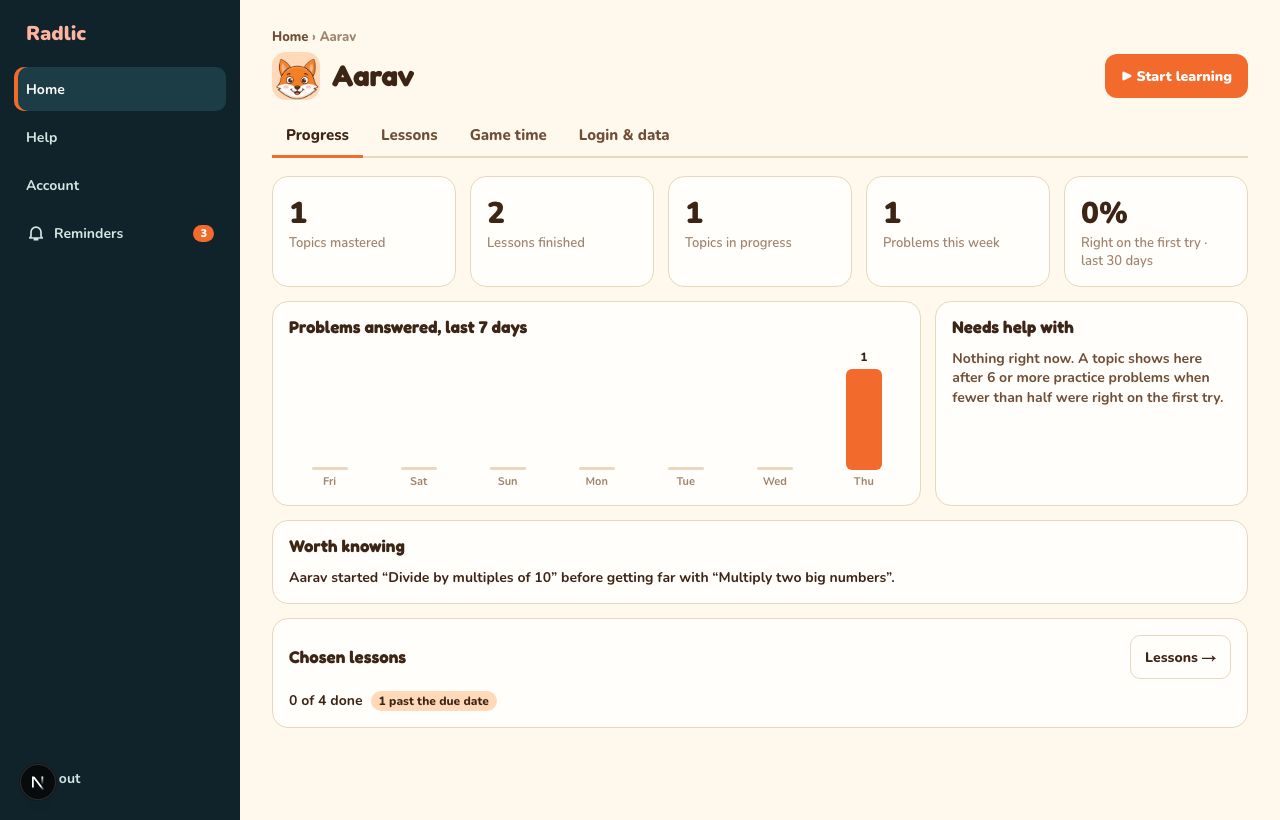
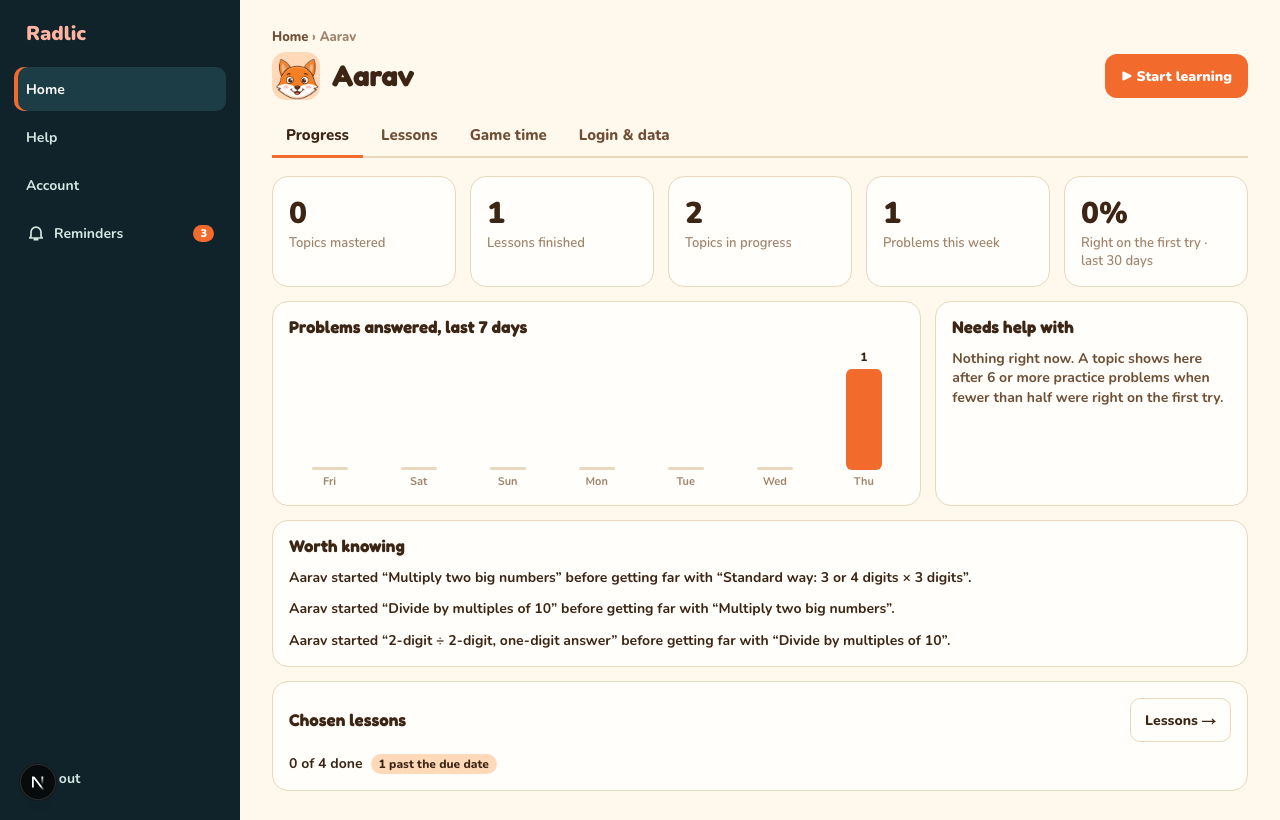
Parent line from progress alone (option a); doc 08 made true; PRs open as Drafts
- The parent's "started X before getting far with Y" is now derived from lesson_progress
  (startedAhead): no learner_events read or written for it, and the nudge no longer logs
  an event. The notice already covers progress, so no legal text changes for it.
- Doc 08 (published): line 20 names the new device keys (where the child is in each topic's
  practice; the day the suggestion was last shown); line 33 no longer claims a signed-out
  device keeps nothing — it names what was measured on 24 Sep (the per-topic standing and
  done keys, and milo-kv-migrated). Spanish draft updated to match. Gated by
  doc08SignedOut.test.ts and re-measured in e2e/short-sessions.spec.ts.
- CLAUDE.md: open every PR as a Draft; Rafi marks it Ready only when he means to merge.
No migration.

diff --git a/src/__tests__/nudgeParentLine.test.ts b/src/__tests__/nudgeParentLine.test.ts
@@ -1,6 +1,7 @@
 /**
- * The parent's calm line about the prerequisite nudge (founder, 2026-09-24): "<name> started “<next>” before getting
- * far with “<prev>”." — only after the child chose "Go anyway", one per topic, newest first. Written out, not imported.
+ * The parent's calm line about going ahead (founder, 2026-09-24, option (a)): "<name> started “<next>” before getting
+ * far with “<prev>”." — derived from PROGRESS ALONE (lesson_progress), which the notice already covers. No event is
+ * read or written for it. Expected lines are written out here, not imported.
  */
 import { describe, it, expect, vi } from 'vitest'
 import { createElement, act } from 'react'
@@ -8,50 +9,45 @@ import { createRoot } from 'react-dom/client'
 
 ;(globalThis as { IS_REACT_ACT_ENVIRONMENT?: boolean }).IS_REACT_ACT_ENVIRONMENT = true
 
-const rows = vi.hoisted(() => ({ events: [] as unknown[] }))
+const data = vi.hoisted(() => ({ rows: [] as { lesson_id: string; done: boolean; level: number; streak: number; mastered: boolean }[], tables: [] as string[] }))
 vi.mock('@/data/repositories/_shared', async orig => {
   const actual = await orig<typeof import('@/data/repositories/_shared')>()
-  // select → eq(learner) → eq(event) → gte → order → limit, as getRecentNudges calls it
-  const q = { select: () => q, eq: () => q, gte: () => q, order: () => q, limit: async () => ({ data: rows.events }) }
-  return { ...actual, db: () => ({ from: () => q }) }
+  const q = (t: string) => { data.tables.push(t); const x = { select: () => x, eq: () => x, gte: () => x, order: async () => ({ data: [] }), then: (r: (v: unknown) => void) => r({ data: t === 'lesson_progress' ? data.rows : [] }) }; return x }
+  return { ...actual, db: () => ({ from: q, rpc: async () => ({ data: null }) }) }
 })
 
-const { getRecentNudges } = await import('@/data/repositories/points')
+const { startedAhead } = await import('@/features/lessons/nudge')
 const { findModule } = await import('@/features/lessons/modules')
-const [first, second, third] = findModule('g3m2')!.lessons
+const { Performance } = await import('@/features/lessons/Performance')
+const m = findModule('g3m2')!
+const [first, second, third] = m.lessons
+const row = (id: string, level: number, mastered = false) => ({ lesson_id: id, done: mastered, level, streak: 0, mastered })
 
-describe('the parent line', () => {
-  it('one per topic, newest first; a malformed event is skipped', async () => {
-    rows.events = [
-      { props: { lesson: second.id, prereq: first.id }, created_at: '2026-09-26T10:00:00Z' },
-      { props: { lesson: second.id, prereq: first.id }, created_at: '2026-09-25T10:00:00Z' },
-      { props: { lesson: 7 }, created_at: '2026-09-25T09:00:00Z' },
-      { props: { lesson: third.id, prereq: second.id }, created_at: '2026-09-24T10:00:00Z' },
-    ]
-    expect(await getRecentNudges('kid', 30)).toEqual([
-      { lesson: second.id, prereq: first.id, at: '2026-09-26T10:00:00Z' },
-      { lesson: third.id, prereq: second.id, at: '2026-09-24T10:00:00Z' },
-    ])
+describe('the parent line, from progress', () => {
+  it('a started topic whose previous topic is under halfway — and only that (a 4-level ladder: ¼ per level)', () => {
+    const four = () => 4
+    const ids = (r: ReturnType<typeof startedAhead>) => r.map(x => [x.lesson.id, x.prev.id])
+    expect(ids(startedAhead([row(second.id, 0)], [m], four))).toEqual([[second.id, first.id]])                        // previous never started
+    expect(ids(startedAhead([row(first.id, 1), row(second.id, 0)], [m], four))).toEqual([[second.id, first.id]])      // ¼
+    expect(startedAhead([row(first.id, 2), row(second.id, 0)], [m], four)).toEqual([])                               // exactly halfway
+    expect(startedAhead([row(first.id, 0, true), row(second.id, 0)], [m], four)).toEqual([])                         // previous mastered
+    expect(startedAhead([row(first.id, 0)], [m], four)).toEqual([])                                                  // nothing started ahead
+    expect(ids(startedAhead([row(first.id, 3), row(second.id, 0), row(third.id, 0)], [m], four))).toEqual([[third.id, second.id]])
   })
 
-  it('shows on the Progress tab in calm words, and not at all when there is nothing to say', async () => {
-    vi.doMock('@/data/repositories/points', async orig => ({
-      ...(await orig<Record<string, unknown>>()),
-      getRecentPoints: async () => [], getLessonRows: async () => [],
-      getRecentNudges: async () => rows.events.length ? [{ lesson: second.id, prereq: first.id, at: 'x' }] : [],
-    }))
-    const { Performance } = await import('@/features/lessons/Performance')
+  it('shows on the Progress tab in calm words; nothing when there is nothing to say; no event table is read', async () => {
     const render = async () => {
       const host = document.createElement('div'); document.body.append(host)
       await act(async () => { createRoot(host).render(createElement(Performance, { learners: [{ id: 'kid', name: 'Ava', lessonIds: null, due: {} }] })) })
       await act(async () => { await new Promise(r => setTimeout(r, 0)) })
       return host.textContent ?? ''
     }
-    const line = `Ava started “${second.title}” before getting far with “${first.title}”.`
+    data.rows = [row(second.id, 1)]
     const shown = await render()
-    expect(shown).toContain('Topics mastered')                    // control: the tab rendered its report
-    expect(shown).toContain(line)
-    rows.events = []
+    expect(shown).toContain('Topics mastered')                        // control: the report rendered
+    expect(shown).toContain(`Ava started “${second.title}” before getting far with “${first.title}”.`)
+    expect(data.tables).not.toContain('learner_events')
+    data.rows = [row(first.id, 0, true), row(second.id, 1)]
     const quiet = await render()
     expect(quiet).toContain('Topics mastered')
     expect(quiet).not.toContain('Worth knowing')

diff --git a/e2e/short-sessions.spec.ts b/e2e/short-sessions.spec.ts
@@ -11,6 +11,7 @@
  * Screenshots → docs/legal/screenshots/short-sessions/.
  */
 import { test, expect, type BrowserContext, type Page, type Route } from '@playwright/test'
+import { readFileSync } from 'node:fs'
 
 const FAKE = 'https://e2e-fake.supabase.co'
 const KID = 'e2e-kid'
@@ -198,8 +199,7 @@ test('Part B — under halfway: the card, a bar and no number; "anyway" in one t
   await page.screenshot({ path: `${SHOTS}/05-nudge.png` })
   await page.getByRole('button', { name: `Go to ${NEXT_TITLE} anyway` }).click()
   await expect(page.getByText('Screen 1 of 9')).toBeVisible()
-  await expect.poll(() => server.events.filter(e => e.event === 'nudge_went_anyway').length).toBe(1)
-  expect(server.events.find(e => e.event === 'nudge_went_anyway')!.props).toEqual({ lesson: TOPIC, prereq: PREV })
+  expect(server.events, 'option (a): no event is written for the nudge').toEqual([])
   await page.reload()
   await expect(page.getByText('Screen 1 of 9')).toBeVisible()
   await expect(page.getByText("You're on your way with")).toHaveCount(0)
@@ -217,16 +217,39 @@ test('Part B — no card at halfway or past it, and none for an assigned topic',
   }
 })
 
-test('the parent sees real progress, calmly — and the nudge line', async ({ browser }) => {
-  server.progress.set(PREV, { lesson_id: PREV, done: true, level: 4, streak: 0, mastered: true })
+test('the parent sees real progress, calmly — and the going-ahead line, read from progress alone', async ({ browser }) => {
+  // TOPIC was started (the tests above); PREV is at level 1 of 5 — under halfway. No event exists for the line to use.
+  server.events.length = 0
+  server.progress.set(PREV, { lesson_id: PREV, done: false, level: 1, streak: 0, mastered: false })
   server.progress.set('g5m1-t13', { lesson_id: 'g5m1-t13', done: false, level: 1, streak: 0, mastered: false })
   const ctx = await device(browser)
   const page = await ctx.newPage()
   await page.goto('/ui-preview?p=child&tab=progress')
   await expect(page.getByText('Topics in progress')).toBeVisible()
-  // g5m1-t13 started and not done → 1 in progress; the other two are done (mastered, and 12 answers).
-  await expect(page.getByText('Topics in progress').locator('xpath=..')).toContainText('1')
+  // g5m1-t11 and g5m1-t13 started and not done → 2 in progress; g5m1-t12 is done (12 answers).
+  await expect(page.getByText('Topics in progress').locator('xpath=..')).toContainText('2')
   await expect(page.getByText(`Aarav started “${NEXT_TITLE}” before getting far with “${PREV_TITLE}”.`)).toBeVisible()
   await page.screenshot({ path: `${SHOTS}/06-parent-progress.png`, fullPage: true })
+  await ctx.close()
+})
+
+test('signed out: the device keeps exactly what the published doc 08 says', async ({ browser }) => {
+  const doc = readFileSync('docs/legal/08-cookie-and-tracking-notice.md', 'utf8').split('\n').find(l => l.startsWith('**If you are not signed in'))!
+  const named = [...doc.matchAll(/`([^`]+)`/g)].map(m => m[1])
+  const matches = (k: string) => named.some(n => new RegExp(`^${n.replace(/[.*+?^${}()|[\]\\]/g, '\\$&').replace('<topic>', '[a-z0-9-]+')}$`).test(k))
+  const ctx = await browser.newContext()
+  await fake(ctx)
+  const page = await ctx.newPage()
+  await page.goto(`/lesson?id=${TOPIC}`)
+  await toPractice(page)
+  for (let n = 1; n <= 12; n++) { await answerNotRight(page); const d = page.getByRole('dialog'); if (await d.isVisible().catch(() => false)) await d.getByRole('button', { name: 'Keep going' }).click() }
+  const idb = await page.evaluate(() => new Promise<string[]>(res => { const r = indexedDB.open('milo', 1); r.onsuccess = () => { const g = r.result.transaction('kv').objectStore('kv').getAllKeys(); g.onsuccess = () => res(g.result.map(String)) } }))
+  const ls = await page.evaluate(() => Array.from({ length: localStorage.length }, (_, i) => localStorage.key(i)!))
+  const ss = await page.evaluate(() => sessionStorage.length)
+  expect(idb.length, 'control: the device store holds something to compare').toBeGreaterThan(0)
+  expect([...idb, ...ls].filter(k => !matches(k)), 'kept on the device but not on the published page').toEqual([])
+  expect(named.filter(n => n.includes('<topic>')).filter(n => !idb.some(k => matches(k) && new RegExp(n.replace('<topic>', '')).test(k))), 'on the page but not kept').toEqual([])
+  expect(ss).toBe(0)
+  expect(await ctx.cookies()).toEqual([])
   await ctx.close()
 })

diff --git a/src/features/lessons/Performance.tsx b/src/features/lessons/Performance.tsx
@@ -9,7 +9,10 @@ import { useEffect, useState, type CSSProperties } from 'react'
 import Link from 'next/link'
 import { findLesson } from './modules'
 import { buildReport, assignmentStatus, localDay, showDay, STUCK_MIN, type Report } from './progressReport'
-import { getLessonRows, getRecentPoints, getRecentNudges } from '@/data/repositories/points'
+import { getLessonRows, getRecentPoints } from '@/data/repositories/points'
+import { startedAhead } from './nudge'
+import { ladderOf } from './ladders'
+import { MODULES } from './modules'
 import { lessonDone } from '@/infra/storage/lessonProgress'
 import { useT, useLang } from '@/features/dashboard/i18n'
 
@@ -21,15 +24,16 @@ const DAYS = 30
 export function Performance({ learners, lessonsHref }: { learners: PerformanceLearner[]; lessonsHref?: string }) {
   const t = useT(), lang = useLang(), loc = lang === 'es' ? 'es-US' : 'en-US'
   const [who, setWho] = useState(learners[0]?.id ?? '')
-  const [report, setReport] = useState<{ id: string; r: Report | null; nudges: { lesson: string; prereq: string }[] } | null>(null)
+  const [report, setReport] = useState<{ id: string; r: Report | null; ahead: ReturnType<typeof startedAhead> } | null>(null)
   const child = learners.find(l => l.id === who) ?? learners[0]
 
   const childId = child?.id
   useEffect(() => {
     if (!childId) return
     let live = true
-    Promise.all([getRecentPoints(childId, DAYS), getLessonRows(childId), getRecentNudges(childId, DAYS)]).then(([points, rows, nudges]) => {
-      if (live) setReport({ id: childId, r: points && rows ? buildReport(points, rows, new Date()) : null, nudges: (nudges ?? []).slice(0, 3) })
+    Promise.all([getRecentPoints(childId, DAYS), getLessonRows(childId)]).then(([points, rows]) => {
+      if (live) setReport({ id: childId, r: points && rows ? buildReport(points, rows, new Date()) : null,
+        ahead: rows ? startedAhead(rows, MODULES, id => ladderOf(id)?.length).slice(0, 3) : [] })
     })
     return () => { live = false }
   }, [childId])
@@ -108,12 +112,12 @@ export function Performance({ learners, lessonsHref }: { learners: PerformanceLe
             </section>
           </div>
 
-          {/* The prerequisite nudge, told calmly: the child chose to go ahead, which is allowed (founder, 2026-09-24). */}
-          {(report?.nudges.length ?? 0) > 0 && <section style={{ ...panel, marginTop: 14 }} aria-label={t('Worth knowing')}>
+          {/* Going ahead is allowed; told calmly, from progress alone (founder, 2026-09-24, option (a)). */}
+          {(report?.ahead.length ?? 0) > 0 && <section style={{ ...panel, marginTop: 14 }} aria-label={t('Worth knowing')}>
             <h2 style={h2}>{t('Worth knowing')}</h2>
-            {report!.nudges.map(n => (
-              <p key={n.lesson} style={{ margin: 0, fontSize: 14, color: 'var(--ink)' }}>
-                {t('{name} started “{next}” before getting far with “{prev}”.', { name: child.name, next: findLesson(n.lesson)?.lesson.title ?? n.lesson, prev: findLesson(n.prereq)?.lesson.title ?? n.prereq })}
+            {report!.ahead.map(a => (
+              <p key={a.lesson.id} style={{ margin: 0, fontSize: 14, color: 'var(--ink)' }}>
+                {t('{name} started “{next}” before getting far with “{prev}”.', { name: child.name, next: a.lesson.title, prev: a.prev.title })}
               </p>
             ))}
           </section>}

diff --git a/src/__tests__/doc08SignedOut.test.ts b/src/__tests__/doc08SignedOut.test.ts
@@ -1,0 +1,40 @@
+/**
+ * Doc 08 is PUBLISHED (/legal/cookies). Its signed-out paragraph states exactly what the device keeps when no child is
+ * signed in; this holds the code to it. Every per-child store is called with no child, and the keys written must be
+ * exactly the ones the paragraph names (`<topic>` = any topic id) — no more (an unlisted key makes the page false) and
+ * no fewer (a named key nothing writes is a stale sentence). The real signed-out flow is re-measured end to end in
+ * e2e/short-sessions.spec.ts. Keys are read out of the document, not typed here.
+ */
+import { describe, it, expect } from 'vitest'
+import { readFileSync } from 'node:fs'
+import { resolve } from 'node:path'
+import { saveStanding } from '@/infra/storage/lessonStanding'
+import { markLessonDone } from '@/infra/storage/lessonProgress'
+import { saveRun } from '@/infra/storage/lessonRun'
+import { syncLesson, syncRun, syncModulePractice } from '@/infra/storage/lessonSync'
+
+const doc = readFileSync(resolve(__dirname, '../../docs/legal/08-cookie-and-tracking-notice.md'), 'utf8')
+const para = doc.split('\n').find(l => l.startsWith('**If you are not signed in'))!
+const named = [...para.matchAll(/`([^`]+)`/g)].map(m => m[1])
+const pattern = (k: string) => new RegExp(`^${k.replace(/[.*+?^${}()|[\]\\]/g, '\\$&').replace('<topic>', '[a-z0-9-]+')}$`)
+
+describe('doc 08: what a signed-out device keeps', () => {
+  it('the paragraph exists and names keys (control)', () => {
+    expect(para).toBeTruthy()
+    expect(named).toContain('milo-newflow-standing-device-<topic>')
+  })
+
+  it('the stores, with no child signed in, write exactly the keys the published page names', () => {
+    localStorage.clear()
+    const problem = { text: 'q', answer: 1, picture: { kind: 'eq' as const, text: '' } }
+    saveStanding(null, 'g5m1-t12', { level: 1, streak: 0, mastered: false })
+    markLessonDone(null, 'g5m1-t12')
+    saveRun(null, 'g5m1-t12', { asked: 5, recent: ['q'], current: { problem, from: 'g5m1-t12' }, review: null })
+    syncLesson(null, 'g5m1-t12', 'first'); syncRun(null, 'g5m1-t12'); syncModulePractice(null, 'g5m1')
+    const written = Array.from({ length: localStorage.length }, (_, i) => localStorage.key(i)!)
+    expect(written.length, 'control: the stores wrote something to look at').toBeGreaterThan(0)
+    const perTopic = named.filter(k => k.includes('<topic>'))
+    expect(written.filter(k => !named.some(n => pattern(n).test(k))), 'written but not on the page').toEqual([])
+    expect(perTopic.filter(n => !written.some(k => pattern(n).test(k))), 'on the page but never written').toEqual([])
+  })
+})

diff --git a/src/__tests__/nudge.test.ts b/src/__tests__/nudge.test.ts
@@ -15,13 +15,11 @@ globalThis.ResizeObserver ??= class { observe() {} unobserve() {} disconnect() {
 
 const nav = vi.hoisted(() => ({ qs: '', pushed: [] as string[] }))
 const who = vi.hoisted(() => ({ learner: null as null | { id: string; lesson_ids: string[] | null } }))
-const tracked = vi.hoisted(() => [] as [string, Record<string, unknown>][])
 vi.mock('next/navigation', () => ({
   useRouter: () => ({ push: (u: string) => nav.pushed.push(u), replace: () => {} }),
   useSearchParams: () => new URLSearchParams(nav.qs), usePathname: () => '/lesson',
 }))
 vi.mock('@/data/supabase/useLearnerSession', () => ({ getActiveLearner: () => who.learner }))
-vi.mock('@/infra/analytics', () => ({ track: (e: string, p: Record<string, unknown>) => tracked.push([e, p]) }))
 vi.mock('@/infra/useMiloSpeaker', () => ({ speak: () => {}, speakSteps: () => () => {}, stopSpeech: () => {} }))
 vi.mock('@/infra/voiceClipPlayer', () => ({ setSceneVoice: () => {}, prefetchClips: () => {}, setClipRate: () => {} }))
 vi.mock('@/data/repositories/points', () => ({
@@ -95,7 +93,7 @@ describe('the /lesson page', () => {
   const CARD = `You're on your way with ${first.title}! ⭐ Getting a bit further there (past halfway) will make ${second.title} easier.`
 
   beforeEach(() => {
-    localStorage.clear(); nav.pushed.length = 0; tracked.length = 0
+    localStorage.clear(); nav.pushed.length = 0
     nav.qs = `id=${second.id}`; who.learner = { id: 'kid-1', lesson_ids: null }
   })
 
@@ -107,7 +105,6 @@ describe('the /lesson page', () => {
     expect(text()).not.toMatch(/\d\s*%/)
     await act(async () => { button(`Go to ${second.title} anyway`)!.click() })
     expect(text()).toContain('Screen 1 of 9')
-    expect(tracked).toEqual([['nudge_went_anyway', { lesson: second.id, prereq: first.id }]])
     await open()
     expect(text()).not.toContain(CARD)
     expect(text()).toContain('Screen 1 of 9')

diff --git a/src/data/repositories/points.ts b/src/data/repositories/points.ts
@@ -106,22 +106,3 @@ export async function setGameSettings(learnerId: string, enabled: boolean, minut
   } catch { return false }
 }
 
-/**
- * "Went ahead anyway" on the prerequisite nudge (features/lessons/nudge.ts), newest first, one per topic: the parent's
- * calm line. From `learner_events`, which the owning adult may read (policy learner_events_select). null = could not read.
- */
-export async function getRecentNudges(learnerId: string, days: number): Promise<{ lesson: string; prereq: string; at: string }[] | null> {
-  try {
-    const since = new Date(Date.now() - days * 86_400_000).toISOString()
-    const { data, error } = await db().from('learner_events').select('props, created_at')
-      .eq('learner_id', learnerId).eq('event', 'nudge_went_anyway').gte('created_at', since).order('created_at', { ascending: false }).limit(50)
-    if (error) return null
-    const seen = new Set<string>(), out: { lesson: string; prereq: string; at: string }[] = []
-    for (const r of data as { props: { lesson?: unknown; prereq?: unknown }; created_at: string }[]) {
-      const { lesson, prereq } = r.props ?? {}
-      if (typeof lesson !== 'string' || typeof prereq !== 'string' || seen.has(lesson)) continue
-      seen.add(lesson); out.push({ lesson, prereq, at: r.created_at })
-    }
-    return out
-  } catch { return null }
-}

diff --git a/src/features/lessons/nudge.ts b/src/features/lessons/nudge.ts
@@ -34,3 +34,19 @@ export function nudgeFor(lesson: Lesson, module: Module, ctx: {
   const progress = progressOf(ctx.standingOf(prev.id), levels)
   return progress < PREREQ_THRESHOLD ? { prev, progress } : null
 }
+
+/**
+ * The parent's line (founder, 2026-09-24, option (a)): read from progress alone, never from an event. A topic the child
+ * has started (it has a progress row) while the topic before it in the module is still under PREREQ_THRESHOLD —
+ * "<name> started “X” before getting far with “Y”." True whether the child saw the card or the topic was assigned: it
+ * describes progress, which the notice already covers ("how it shows you progress").
+ */
+export function startedAhead(rows: readonly (Standing & { lesson_id: string })[], modules: readonly Module[],
+  levelsOf: (id: string) => number | undefined): { lesson: Lesson; prev: Lesson }[] {
+  const byId = new Map(rows.map(r => [r.lesson_id, r]))
+  return modules.flatMap(m => m.lessons.flatMap((lesson, i) => {
+    const prev = m.lessons[i - 1], levels = prev && levelsOf(prev.id)
+    if (!prev || !levels || !byId.has(lesson.id)) return []
+    return progressOf(byId.get(prev.id) ?? null, levels) < PREREQ_THRESHOLD ? [{ lesson, prev }] : []
+  }))
+}

diff --git a/src/features/lessons/LessonPlayer.tsx b/src/features/lessons/LessonPlayer.tsx
@@ -25,7 +25,6 @@ import { lessonDone } from '@/infra/storage/lessonProgress'
 import { syncLesson, syncRun } from '@/infra/storage/lessonSync'
 import { C } from './sessionCopy'
 import type { Nudge } from './nudge'
-import { track } from '@/infra/analytics'
 import { markNudgeShown } from '@/infra/storage/nudgeSeen'
 import { Pic, tapCue, pill, INK } from './Pictures'
 import { Ink, wrap } from './Diagrams'
@@ -186,7 +185,7 @@ export function LessonPlayer({ lesson, learnerId = null, earlier = [], moduleDon
 
   if (nudging) {
     // A nudge, never a lock: both buttons are fine, "anyway" goes straight in with nothing else asked.
-    const anyway = () => { track('nudge_went_anyway', { lesson: lesson.id, prereq: nudging.prev.id }); setNudging(null) }
+    const anyway = () => setNudging(null)
     return (
       <Frame crumb={lesson.title} at={0} total={9} title={lesson.title}
         picture={<div style={{ ...stage, justifyContent: 'center', gap: 12 }}>

diff --git a/docs/legal/es/08-cookie-and-tracking-notice.md b/docs/legal/es/08-cookie-and-tracking-notice.md
@@ -23,7 +23,7 @@ REVIEWED-BY:
 |---|---|---|---|---|
 | — | Cookies | **No usamos ninguna.** | — | — |
 | `milo-kv-migrated` | Almacenamiento local | Recuerda que sus datos guardados ya se trasladaron al formato de almacenamiento más reciente | Hasta que usted lo borre | Estrictamente necesario |
-| Base de datos `milo`, almacén `kv` | Base de datos en el dispositivo | El perfil de su hijo, lo último que usó, el trabajo pendiente de sincronizar si usted se queda sin conexión, las preferencias de voz y de velocidad, y el idioma elegido | Hasta que usted lo borre | Funcional |
+| Base de datos `milo`, almacén `kv` | Base de datos en el dispositivo | El perfil de su hijo, lo último que usó y dónde va en la práctica de cada tema, el trabajo pendiente de sincronizar si usted se queda sin conexión, el día en que se mostró por última vez la sugerencia de "practicar primero el tema anterior", las preferencias de voz y de velocidad, y el idioma elegido | Hasta que usted lo borre | Funcional |
 | `milo-shell`, `milo-static`, `milo-assets` | Almacenamiento en caché | La propia aplicación, sus imágenes y su audio, para que las lecciones funcionen sin conexión y usen menos datos. Unos 7 MB después de una lección, y aumenta con el audio de cada lección | Hasta que la aplicación se actualice a una versión nueva | Estrictamente necesario |
 | `al-lang` | Almacenamiento local | El idioma que eligió para el panel de padres y las pantallas de consentimiento (inglés o español) *(leído del código, 24 sep 2026)* | Hasta que lo borre | Funcional |
 | `al-dash-prefs:<id de la cuenta>` | Almacenamiento local | Sus preferencias del panel: recordatorios pospuestos u ocultos, tipos de recordatorio desactivados, su última visita y qué recorridos guiados ya vio. Nada sobre un niño *(leído del código)* | Hasta que lo borre | Funcional |
@@ -36,7 +36,7 @@ REVIEWED-BY:
 
 > Las dos últimas filas también se observaron en una sesión real de un niño con la sesión iniciada, el 24 de septiembre de 2026.
 
-**Si no ha iniciado sesión, no se guarda nada sobre su hijo.** Verificado: después de una lección completa y una sesión de práctica sin iniciar sesión, el almacén del dispositivo estaba vacío.
+**Si no ha iniciado sesión, no se guarda nada que nombre o identifique a su hijo y no se nos envía nada, pero el dispositivo sí guarda una nota de la práctica.** Según lo medido el 24 de septiembre de 2026, después de una lección completa y una sesión de práctica sin iniciar sesión, la base de datos del dispositivo tenía dos entradas para el tema practicado: `milo-newflow-standing-device-<tema>` (hasta dónde llegó el dispositivo en la práctica de ese tema: un número de nivel, cuántas respuestas seguidas fueron correctas y si lo dominó) y, una vez terminado el tema, `milo-newflow-done-device-<tema>`; el almacenamiento local tenía `milo-kv-migrated`. Ninguna contiene un nombre, un correo electrónico ni una cuenta, y permanecen en el dispositivo hasta que usted las borre.
 
 ## Lo que no hacemos
 

diff --git a/docs/legal/08-cookie-and-tracking-notice.md b/docs/legal/08-cookie-and-tracking-notice.md
@@ -17,7 +17,7 @@
 |---|---|---|---|---|
 | — | Cookies | **We set none.** | — | — |
 | `milo-kv-migrated` | Local storage | Remembers that your saved data has already been moved to the newer storage format | Until you clear it | Strictly necessary |
-| `milo` database, `kv` store | On-device database | Your child's profile, what they last played, work waiting to sync if you go offline, voice and speed preferences, and the chosen language | Until you clear it | Functional |
+| `milo` database, `kv` store | On-device database | Your child's profile, what they last played and where they are in each topic's practice, work waiting to sync if you go offline, the day a "practise the topic before first" suggestion was last shown, voice and speed preferences, and the chosen language | Until you clear it | Functional |
 | `milo-shell`, `milo-static`, `milo-assets` | Cache storage | The app itself, its images and its audio, so lessons work offline and use less data. About 7 MB after one lesson, growing with each lesson's audio | Until the app updates to a new version | Strictly necessary |
 | `al-lang` | Local storage | The language you chose for the parent dashboard and the consent screens (English or Spanish) *(read from the code, 24 Sep 2026)* | Until you clear it | Functional |
 | `al-dash-prefs:<account id>` | Local storage | Your dashboard choices: reminders snoozed or hidden, kinds of reminder switched off, when you last visited, which guided tours you have seen. Nothing about a child *(read from the code)* | Until you clear it | Functional |
@@ -30,7 +30,7 @@
 
 > The last two rows were also seen in a live signed-in child session on 24 September 2026.
 
-**If you are not signed in, nothing is stored about your child at all.** Verified: after a full lesson and practice session signed out, the on-device store was empty.
+**If you are not signed in, nothing that names or identifies your child is stored, and nothing is sent to us — but the device does keep a note of the practice.** As measured on 24 September 2026, after a full lesson and practice session signed out, the on-device database held two entries for the topic practised: `milo-newflow-standing-device-<topic>` (how far along that topic's practice the device got: a level number, a count of right answers in a row, and whether it was mastered) and, once the topic was finished, `milo-newflow-done-device-<topic>`; local storage held `milo-kv-migrated`. None of these carries a name, an email address or an account, and they stay on the device until you clear it.
 
 ## What we do not do
 

diff --git a/CLAUDE.md b/CLAUDE.md
@@ -1,5 +1,12 @@
 @AGENTS.md
 
+# ⛔ OPEN EVERY PR AS A DRAFT. RAFI MARKS IT READY ONLY WHEN HE MEANS TO MERGE.
+
+`gh pr create --draft`, always — including a follow-up, a stacked PR and a one-line fix. Never mark a PR Ready for
+review yourself, and never undo a Draft someone else set. Founder's rule, 2026-09-24, after #209 (titled "do not merge
+before the launch weekend") was merged the same hour it was opened and went to production: a title is not a lock, and
+a Ready PR reads as "ready to merge" to anyone looking at the list.
+
 # ⛔ HARD RULE — NEVER POINT THE SUPABASE CLI AT A REMOTE DATABASE FROM A LOCAL CHECKOUT
 
 Founder's rule, 2026-09-23, after an agent's unquoted shell heredoc executed `supabase db push` by accident
